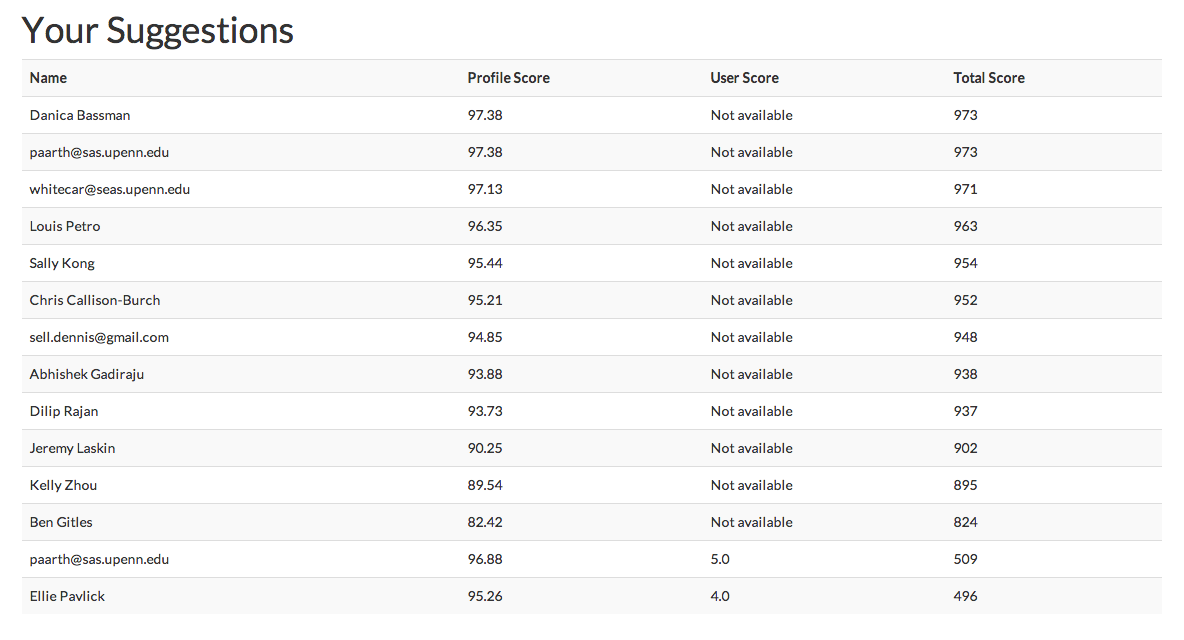
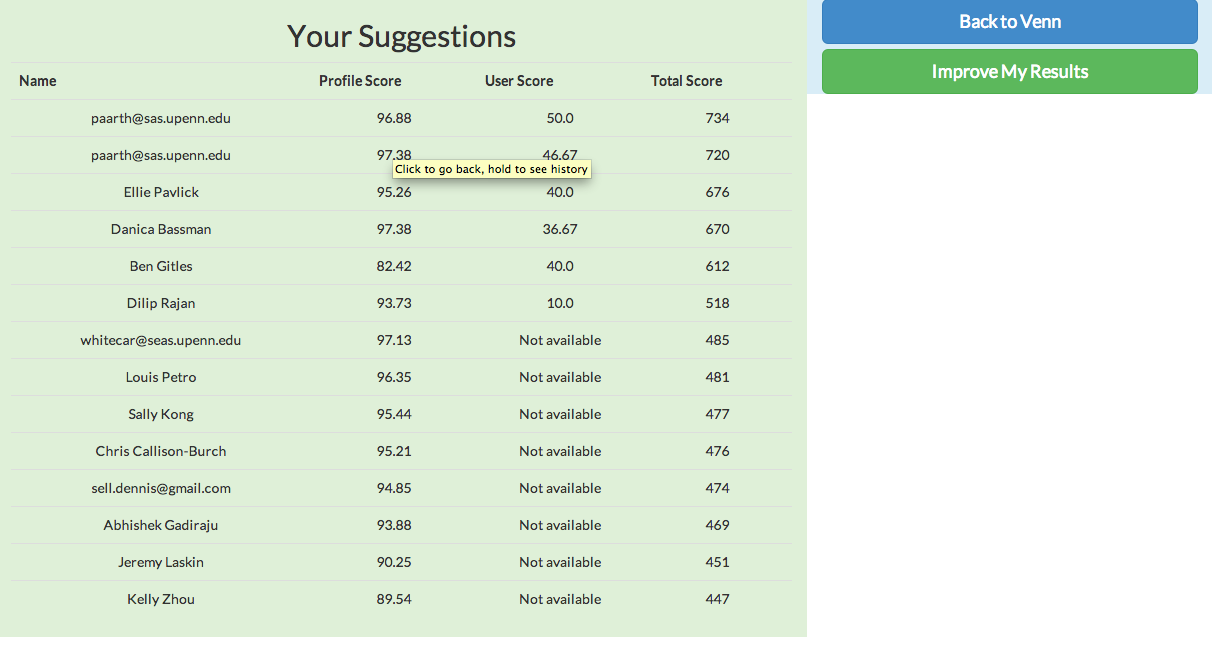
style results page

diff --git a/templates/users/details.html b/templates/users/details.html
@@ -1,9 +1,9 @@
 {% extends "base.html" -%}
 {% block content %}
 <title>Your Suggestions</title>
-<div class="container">
-    <h1>Your Suggestions</h1>
-    <table class="table table-striped">
+<div class="container bg-success col-sm-8" style="text-align:center;">
+    <h2>Your Suggestions</h2>
+    <table class="table borderless">
         <tr>
             <th>Name</th>
             <th>Profile Score</th>
@@ -28,4 +28,7 @@
         {% endfor %}
     </table>
 </div>
+<div class="container bg-info col-sm-4">
+<a href="/" class="btn btn-primary btn-lg btn-block">Back to Venn</a>
+<a href="/quiz" class="btn btn-success btn-lg btn-block">Improve My Results</a>
 {% endblock %}

diff --git a/static/stylesheets/style.css b/static/stylesheets/style.css
@@ -280,3 +280,7 @@ input[type=range]:focus {
 input[type=range]:focus::-webkit-slider-runnable-track {
     background: #ccc;
 }
+
+.borderless td {
+    border: none;
+}
